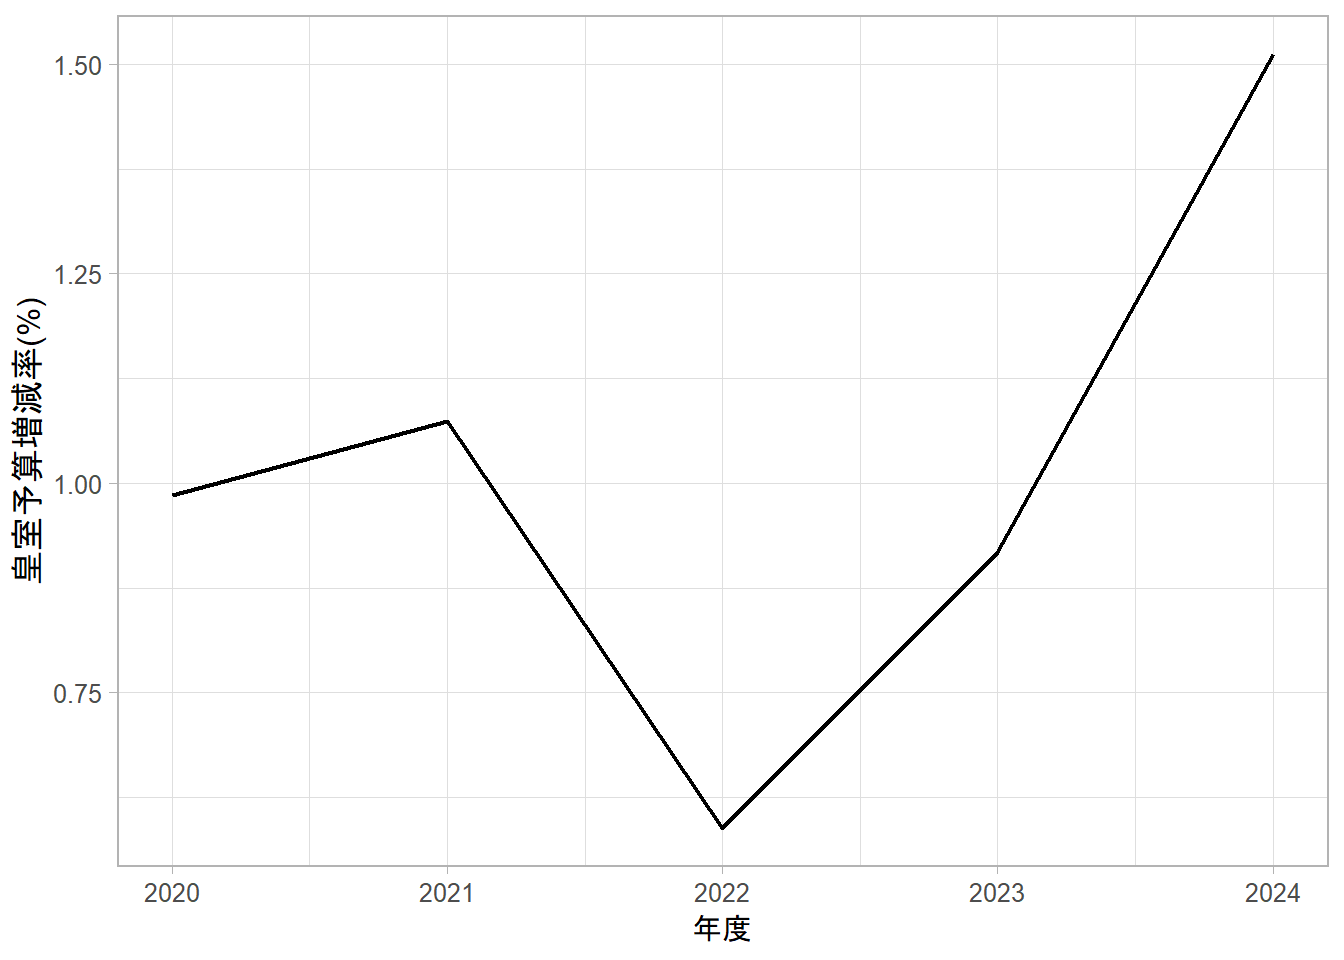
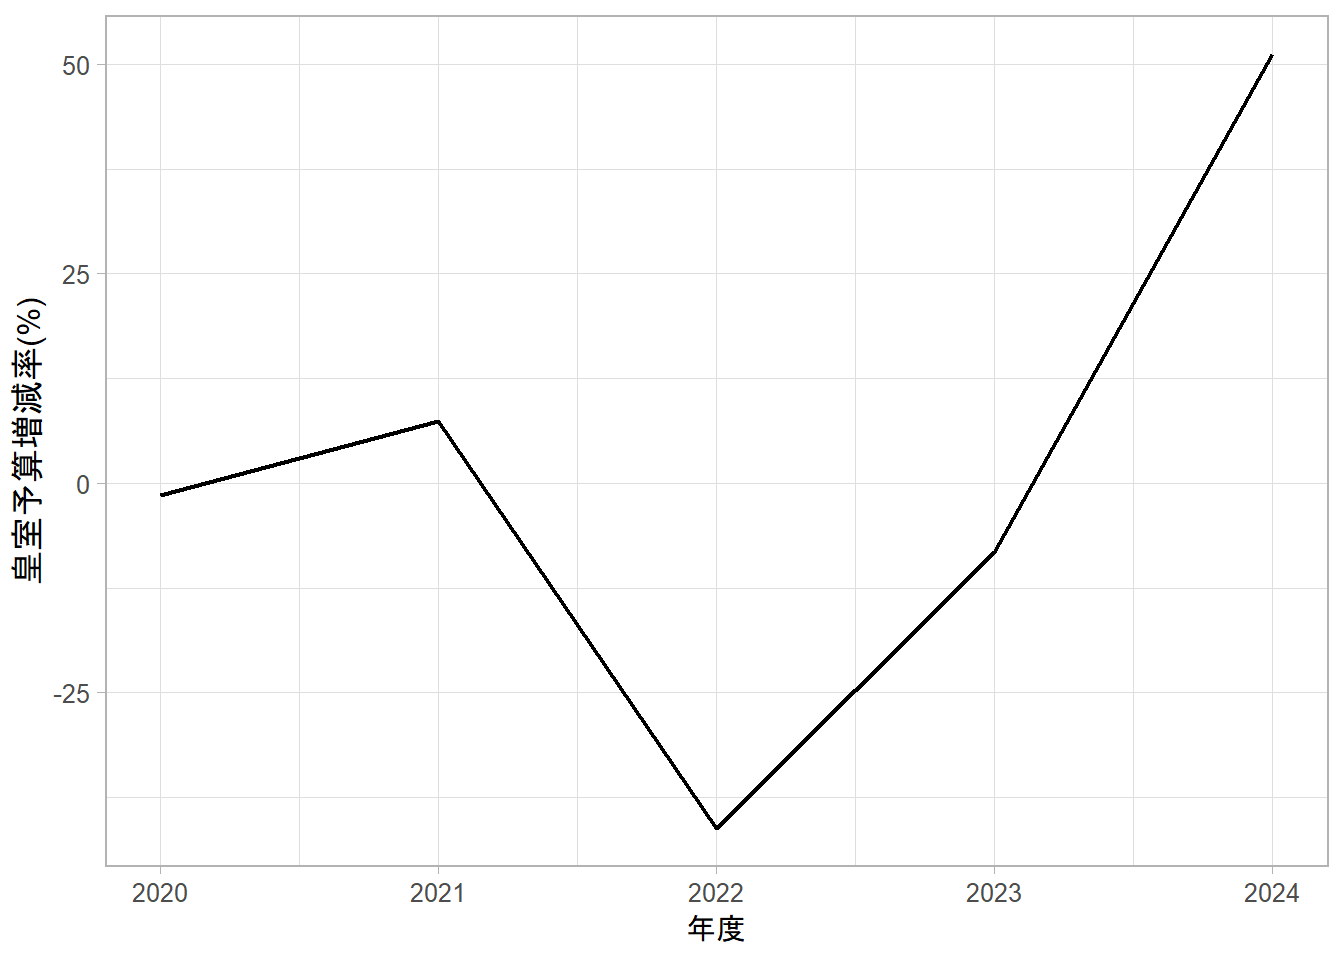
2

diff --git a/docs/ministry_expenses.html b/docs/ministry_expenses.html
@@ -788,92 +788,92 @@ The following object is masked from 'package:tidyr':
 <div class="sourceCode cell-code" id="cb24"><pre class="sourceCode r code-with-copy"><code class="sourceCode r"><span id="cb24-1"><a href="#cb24-1" aria-hidden="true" tabindex="-1"></a>Year1 <span class="ot">&lt;-</span> Year[<span class="dv">2</span><span class="sc">:</span><span class="dv">6</span>]</span>
 <span id="cb24-2"><a href="#cb24-2" aria-hidden="true" tabindex="-1"></a>revenue1 <span class="ot">&lt;-</span> revenue[<span class="dv">1</span><span class="sc">:</span><span class="dv">5</span>]</span>
 <span id="cb24-3"><a href="#cb24-3" aria-hidden="true" tabindex="-1"></a>revenue2 <span class="ot">&lt;-</span> revenue[<span class="dv">2</span><span class="sc">:</span><span class="dv">6</span>]</span>
-<span id="cb24-4"><a href="#cb24-4" aria-hidden="true" tabindex="-1"></a>revenue_Change <span class="ot">&lt;-</span> revenue2 <span class="sc">/</span> revenue1 </span>
+<span id="cb24-4"><a href="#cb24-4" aria-hidden="true" tabindex="-1"></a>revenue_Change <span class="ot">&lt;-</span> revenue2 <span class="sc">/</span> revenue1 <span class="sc">*</span> <span class="dv">100</span> <span class="sc">-</span> <span class="dv">100</span></span>
 <span id="cb24-5"><a href="#cb24-5" aria-hidden="true" tabindex="-1"></a>revenue_Change_df <span class="ot">&lt;-</span> <span class="fu">data.frame</span>(Year1,revenue_Change)</span>
 <span id="cb24-6"><a href="#cb24-6" aria-hidden="true" tabindex="-1"></a></span>
 <span id="cb24-7"><a href="#cb24-7" aria-hidden="true" tabindex="-1"></a>Imperial1 <span class="ot">&lt;-</span> Imperial[<span class="dv">1</span><span class="sc">:</span><span class="dv">5</span>]</span>
 <span id="cb24-8"><a href="#cb24-8" aria-hidden="true" tabindex="-1"></a>Imperial2 <span class="ot">&lt;-</span> Imperial[<span class="dv">2</span><span class="sc">:</span><span class="dv">6</span>]</span>
-<span id="cb24-9"><a href="#cb24-9" aria-hidden="true" tabindex="-1"></a>Imperial_Change <span class="ot">&lt;-</span> Imperial2 <span class="sc">/</span> Imperial1 </span>
+<span id="cb24-9"><a href="#cb24-9" aria-hidden="true" tabindex="-1"></a>Imperial_Change <span class="ot">&lt;-</span> Imperial2 <span class="sc">/</span> Imperial1 <span class="sc">*</span> <span class="dv">100</span> <span class="sc">-</span> <span class="dv">100</span></span>
 <span id="cb24-10"><a href="#cb24-10" aria-hidden="true" tabindex="-1"></a>Imperial_Change_df <span class="ot">&lt;-</span> <span class="fu">data.frame</span>(Year1,Imperial_Change)</span>
 <span id="cb24-11"><a href="#cb24-11" aria-hidden="true" tabindex="-1"></a></span>
 <span id="cb24-12"><a href="#cb24-12" aria-hidden="true" tabindex="-1"></a>Diet1 <span class="ot">&lt;-</span> Diet[<span class="dv">1</span><span class="sc">:</span><span class="dv">5</span>]</span>
 <span id="cb24-13"><a href="#cb24-13" aria-hidden="true" tabindex="-1"></a>Diet2 <span class="ot">&lt;-</span> Diet[<span class="dv">2</span><span class="sc">:</span><span class="dv">6</span>]</span>
-<span id="cb24-14"><a href="#cb24-14" aria-hidden="true" tabindex="-1"></a>Diet_Change <span class="ot">&lt;-</span> Diet2 <span class="sc">/</span> Diet1 </span>
+<span id="cb24-14"><a href="#cb24-14" aria-hidden="true" tabindex="-1"></a>Diet_Change <span class="ot">&lt;-</span> Diet2 <span class="sc">/</span> Diet1 <span class="sc">*</span> <span class="dv">100</span> <span class="sc">-</span> <span class="dv">100</span></span>
 <span id="cb24-15"><a href="#cb24-15" aria-hidden="true" tabindex="-1"></a>Diet_Change_df <span class="ot">&lt;-</span> <span class="fu">data.frame</span>(Year1,Diet_Change)</span>
 <span id="cb24-16"><a href="#cb24-16" aria-hidden="true" tabindex="-1"></a></span>
 <span id="cb24-17"><a href="#cb24-17" aria-hidden="true" tabindex="-1"></a>Court1 <span class="ot">&lt;-</span> Court[<span class="dv">1</span><span class="sc">:</span><span class="dv">5</span>]</span>
 <span id="cb24-18"><a href="#cb24-18" aria-hidden="true" tabindex="-1"></a>Court2 <span class="ot">&lt;-</span> Court[<span class="dv">2</span><span class="sc">:</span><span class="dv">6</span>]</span>
-<span id="cb24-19"><a href="#cb24-19" aria-hidden="true" tabindex="-1"></a>Court_Change <span class="ot">&lt;-</span> Court2 <span class="sc">/</span> Court1 </span>
+<span id="cb24-19"><a href="#cb24-19" aria-hidden="true" tabindex="-1"></a>Court_Change <span class="ot">&lt;-</span> Court2 <span class="sc">/</span> Court1 <span class="sc">*</span> <span class="dv">100</span> <span class="sc">-</span> <span class="dv">100</span></span>
 <span id="cb24-20"><a href="#cb24-20" aria-hidden="true" tabindex="-1"></a>Court_Change_df <span class="ot">&lt;-</span> <span class="fu">data.frame</span>(Year1,Court_Change)</span>
 <span id="cb24-21"><a href="#cb24-21" aria-hidden="true" tabindex="-1"></a></span>
 <span id="cb24-22"><a href="#cb24-22" aria-hidden="true" tabindex="-1"></a>Accounting1 <span class="ot">&lt;-</span> Accounting[<span class="dv">1</span><span class="sc">:</span><span class="dv">5</span>]</span>
 <span id="cb24-23"><a href="#cb24-23" aria-hidden="true" tabindex="-1"></a>Accounting2 <span class="ot">&lt;-</span> Accounting[<span class="dv">2</span><span class="sc">:</span><span class="dv">6</span>]</span>
-<span id="cb24-24"><a href="#cb24-24" aria-hidden="true" tabindex="-1"></a>Accounting_Change <span class="ot">&lt;-</span> Accounting2 <span class="sc">/</span>Accounting1 </span>
+<span id="cb24-24"><a href="#cb24-24" aria-hidden="true" tabindex="-1"></a>Accounting_Change <span class="ot">&lt;-</span> Accounting2 <span class="sc">/</span>Accounting1 <span class="sc">*</span> <span class="dv">100</span> <span class="sc">-</span> <span class="dv">100</span></span>
 <span id="cb24-25"><a href="#cb24-25" aria-hidden="true" tabindex="-1"></a>Accounting_Change_df <span class="ot">&lt;-</span> <span class="fu">data.frame</span>(Year1,Accounting_Change)</span>
 <span id="cb24-26"><a href="#cb24-26" aria-hidden="true" tabindex="-1"></a></span>
 <span id="cb24-27"><a href="#cb24-27" aria-hidden="true" tabindex="-1"></a>Cabinet1 <span class="ot">&lt;-</span> Cabinet[<span class="dv">1</span><span class="sc">:</span><span class="dv">5</span>]</span>
 <span id="cb24-28"><a href="#cb24-28" aria-hidden="true" tabindex="-1"></a>Cabinet2 <span class="ot">&lt;-</span> Cabinet[<span class="dv">2</span><span class="sc">:</span><span class="dv">6</span>]</span>
-<span id="cb24-29"><a href="#cb24-29" aria-hidden="true" tabindex="-1"></a>Cabinet_Change <span class="ot">&lt;-</span> Cabinet2 <span class="sc">/</span> Cabinet1 </span>
+<span id="cb24-29"><a href="#cb24-29" aria-hidden="true" tabindex="-1"></a>Cabinet_Change <span class="ot">&lt;-</span> Cabinet2 <span class="sc">/</span> Cabinet1 <span class="sc">*</span> <span class="dv">100</span> <span class="sc">-</span> <span class="dv">100</span></span>
 <span id="cb24-30"><a href="#cb24-30" aria-hidden="true" tabindex="-1"></a>Cabinet_Change_df <span class="ot">&lt;-</span> <span class="fu">data.frame</span>(Year1,Cabinet_Change)</span>
 <span id="cb24-31"><a href="#cb24-31" aria-hidden="true" tabindex="-1"></a></span>
 <span id="cb24-32"><a href="#cb24-32" aria-hidden="true" tabindex="-1"></a>Cabinet_Office1 <span class="ot">&lt;-</span> Cabinet_Office[<span class="dv">1</span><span class="sc">:</span><span class="dv">5</span>]</span>
 <span id="cb24-33"><a href="#cb24-33" aria-hidden="true" tabindex="-1"></a>Cabinet_Office2 <span class="ot">&lt;-</span> Cabinet_Office[<span class="dv">2</span><span class="sc">:</span><span class="dv">6</span>]</span>
-<span id="cb24-34"><a href="#cb24-34" aria-hidden="true" tabindex="-1"></a>Cabinet_Office_Change <span class="ot">&lt;-</span> Cabinet_Office2 <span class="sc">/</span>Cabinet_Office1 </span>
+<span id="cb24-34"><a href="#cb24-34" aria-hidden="true" tabindex="-1"></a>Cabinet_Office_Change <span class="ot">&lt;-</span> Cabinet_Office2 <span class="sc">/</span>Cabinet_Office1 <span class="sc">*</span> <span class="dv">100</span> <span class="sc">-</span> <span class="dv">100</span></span>
 <span id="cb24-35"><a href="#cb24-35" aria-hidden="true" tabindex="-1"></a>Cabinet_Office_Change_df <span class="ot">&lt;-</span> <span class="fu">data.frame</span>(Year1,Cabinet_Office_Change)</span>
 <span id="cb24-36"><a href="#cb24-36" aria-hidden="true" tabindex="-1"></a></span>
 <span id="cb24-37"><a href="#cb24-37" aria-hidden="true" tabindex="-1"></a>MIC1 <span class="ot">&lt;-</span> MIC[<span class="dv">1</span><span class="sc">:</span><span class="dv">5</span>]</span>
 <span id="cb24-38"><a href="#cb24-38" aria-hidden="true" tabindex="-1"></a>MIC2 <span class="ot">&lt;-</span> MIC[<span class="dv">2</span><span class="sc">:</span><span class="dv">6</span>]</span>
-<span id="cb24-39"><a href="#cb24-39" aria-hidden="true" tabindex="-1"></a>MIC_Change <span class="ot">&lt;-</span> MIC2 <span class="sc">/</span> MIC1 </span>
+<span id="cb24-39"><a href="#cb24-39" aria-hidden="true" tabindex="-1"></a>MIC_Change <span class="ot">&lt;-</span> MIC2 <span class="sc">/</span> MIC1 <span class="sc">*</span> <span class="dv">100</span> <span class="sc">-</span> <span class="dv">100</span></span>
 <span id="cb24-40"><a href="#cb24-40" aria-hidden="true" tabindex="-1"></a>MIC_Change_df <span class="ot">&lt;-</span> <span class="fu">data.frame</span>(Year1,MIC_Change)</span>
 <span id="cb24-41"><a href="#cb24-41" aria-hidden="true" tabindex="-1"></a></span>
 <span id="cb24-42"><a href="#cb24-42" aria-hidden="true" tabindex="-1"></a>Justice1 <span class="ot">&lt;-</span> Justice[<span class="dv">1</span><span class="sc">:</span><span class="dv">5</span>]</span>
 <span id="cb24-43"><a href="#cb24-43" aria-hidden="true" tabindex="-1"></a>Justice2 <span class="ot">&lt;-</span> Justice[<span class="dv">2</span><span class="sc">:</span><span class="dv">6</span>]</span>
-<span id="cb24-44"><a href="#cb24-44" aria-hidden="true" tabindex="-1"></a>Justice_Change <span class="ot">&lt;-</span> Justice2 <span class="sc">/</span> Justice1 </span>
+<span id="cb24-44"><a href="#cb24-44" aria-hidden="true" tabindex="-1"></a>Justice_Change <span class="ot">&lt;-</span> Justice2 <span class="sc">/</span> Justice1 <span class="sc">*</span> <span class="dv">100</span> <span class="sc">-</span> <span class="dv">100</span></span>
 <span id="cb24-45"><a href="#cb24-45" aria-hidden="true" tabindex="-1"></a>Justice_Change_df <span class="ot">&lt;-</span> <span class="fu">data.frame</span>(Year1,Justice_Change)</span>
 <span id="cb24-46"><a href="#cb24-46" aria-hidden="true" tabindex="-1"></a></span>
 <span id="cb24-47"><a href="#cb24-47" aria-hidden="true" tabindex="-1"></a>Foreign1 <span class="ot">&lt;-</span> Foreign[<span class="dv">1</span><span class="sc">:</span><span class="dv">5</span>]</span>
 <span id="cb24-48"><a href="#cb24-48" aria-hidden="true" tabindex="-1"></a>Foreign2 <span class="ot">&lt;-</span> Foreign[<span class="dv">2</span><span class="sc">:</span><span class="dv">6</span>]</span>
-<span id="cb24-49"><a href="#cb24-49" aria-hidden="true" tabindex="-1"></a>Foreign_Change <span class="ot">&lt;-</span> Foreign2 <span class="sc">/</span> Foreign1 </span>
+<span id="cb24-49"><a href="#cb24-49" aria-hidden="true" tabindex="-1"></a>Foreign_Change <span class="ot">&lt;-</span> Foreign2 <span class="sc">/</span> Foreign1 <span class="sc">*</span> <span class="dv">100</span> <span class="sc">-</span> <span class="dv">100</span></span>
 <span id="cb24-50"><a href="#cb24-50" aria-hidden="true" tabindex="-1"></a>Foreign_Change_df <span class="ot">&lt;-</span> <span class="fu">data.frame</span>(Year1,Foreign_Change)</span>
 <span id="cb24-51"><a href="#cb24-51" aria-hidden="true" tabindex="-1"></a></span>
 <span id="cb24-52"><a href="#cb24-52" aria-hidden="true" tabindex="-1"></a>Finance1 <span class="ot">&lt;-</span> Finance[<span class="dv">1</span><span class="sc">:</span><span class="dv">5</span>]</span>
 <span id="cb24-53"><a href="#cb24-53" aria-hidden="true" tabindex="-1"></a>Finance2 <span class="ot">&lt;-</span> Finance[<span class="dv">2</span><span class="sc">:</span><span class="dv">6</span>]</span>
-<span id="cb24-54"><a href="#cb24-54" aria-hidden="true" tabindex="-1"></a>Finance_Change <span class="ot">&lt;-</span> Finance2 <span class="sc">/</span>Finance1 </span>
+<span id="cb24-54"><a href="#cb24-54" aria-hidden="true" tabindex="-1"></a>Finance_Change <span class="ot">&lt;-</span> Finance2 <span class="sc">/</span>Finance1 <span class="sc">*</span> <span class="dv">100</span> <span class="sc">-</span> <span class="dv">100</span></span>
 <span id="cb24-55"><a href="#cb24-55" aria-hidden="true" tabindex="-1"></a>Finance_Change_df <span class="ot">&lt;-</span> <span class="fu">data.frame</span>(Year1,Finance_Change)</span>
 <span id="cb24-56"><a href="#cb24-56" aria-hidden="true" tabindex="-1"></a></span>
 <span id="cb24-57"><a href="#cb24-57" aria-hidden="true" tabindex="-1"></a>Education1 <span class="ot">&lt;-</span> Education[<span class="dv">1</span><span class="sc">:</span><span class="dv">5</span>]</span>
 <span id="cb24-58"><a href="#cb24-58" aria-hidden="true" tabindex="-1"></a>Education2 <span class="ot">&lt;-</span> Education[<span class="dv">2</span><span class="sc">:</span><span class="dv">6</span>]</span>
-<span id="cb24-59"><a href="#cb24-59" aria-hidden="true" tabindex="-1"></a>Education_Change <span class="ot">&lt;-</span> Education2 <span class="sc">/</span> Education1 </span>
+<span id="cb24-59"><a href="#cb24-59" aria-hidden="true" tabindex="-1"></a>Education_Change <span class="ot">&lt;-</span> Education2 <span class="sc">/</span> Education1 <span class="sc">*</span> <span class="dv">100</span> <span class="sc">-</span> <span class="dv">100</span></span>
 <span id="cb24-60"><a href="#cb24-60" aria-hidden="true" tabindex="-1"></a>Education_Change_df <span class="ot">&lt;-</span> <span class="fu">data.frame</span>(Year1,Education_Change)</span>
 <span id="cb24-61"><a href="#cb24-61" aria-hidden="true" tabindex="-1"></a></span>
 <span id="cb24-62"><a href="#cb24-62" aria-hidden="true" tabindex="-1"></a>MHLW1 <span class="ot">&lt;-</span> MHLW[<span class="dv">1</span><span class="sc">:</span><span class="dv">5</span>]</span>
 <span id="cb24-63"><a href="#cb24-63" aria-hidden="true" tabindex="-1"></a>MHLW2 <span class="ot">&lt;-</span> MHLW[<span class="dv">2</span><span class="sc">:</span><span class="dv">6</span>]</span>
-<span id="cb24-64"><a href="#cb24-64" aria-hidden="true" tabindex="-1"></a>MHLW_Change <span class="ot">&lt;-</span> MHLW2 <span class="sc">/</span> MHLW1 </span>
+<span id="cb24-64"><a href="#cb24-64" aria-hidden="true" tabindex="-1"></a>MHLW_Change <span class="ot">&lt;-</span> MHLW2 <span class="sc">/</span> MHLW1 <span class="sc">*</span> <span class="dv">100</span> <span class="sc">-</span> <span class="dv">100</span></span>
 <span id="cb24-65"><a href="#cb24-65" aria-hidden="true" tabindex="-1"></a>MHLW_Change_df <span class="ot">&lt;-</span> <span class="fu">data.frame</span>(Year1,MHLW_Change)</span>
 <span id="cb24-66"><a href="#cb24-66" aria-hidden="true" tabindex="-1"></a></span>
 <span id="cb24-67"><a href="#cb24-67" aria-hidden="true" tabindex="-1"></a>MAFF1 <span class="ot">&lt;-</span> MAFF[<span class="dv">1</span><span class="sc">:</span><span class="dv">5</span>]</span>
 <span id="cb24-68"><a href="#cb24-68" aria-hidden="true" tabindex="-1"></a>MAFF2 <span class="ot">&lt;-</span> MAFF[<span class="dv">2</span><span class="sc">:</span><span class="dv">6</span>]</span>
-<span id="cb24-69"><a href="#cb24-69" aria-hidden="true" tabindex="-1"></a>MAFF_Change <span class="ot">&lt;-</span> MAFF2 <span class="sc">/</span> MAFF1 </span>
+<span id="cb24-69"><a href="#cb24-69" aria-hidden="true" tabindex="-1"></a>MAFF_Change <span class="ot">&lt;-</span> MAFF2 <span class="sc">/</span> MAFF1 <span class="sc">*</span> <span class="dv">100</span> <span class="sc">-</span> <span class="dv">100</span></span>
 <span id="cb24-70"><a href="#cb24-70" aria-hidden="true" tabindex="-1"></a>MAFF_Change_df <span class="ot">&lt;-</span> <span class="fu">data.frame</span>(Year1,MAFF_Change)</span>
 <span id="cb24-71"><a href="#cb24-71" aria-hidden="true" tabindex="-1"></a></span>
 <span id="cb24-72"><a href="#cb24-72" aria-hidden="true" tabindex="-1"></a>METI1 <span class="ot">&lt;-</span> METI[<span class="dv">1</span><span class="sc">:</span><span class="dv">5</span>]</span>
 <span id="cb24-73"><a href="#cb24-73" aria-hidden="true" tabindex="-1"></a>METI2 <span class="ot">&lt;-</span> METI[<span class="dv">2</span><span class="sc">:</span><span class="dv">6</span>]</span>
-<span id="cb24-74"><a href="#cb24-74" aria-hidden="true" tabindex="-1"></a>METI_Change <span class="ot">&lt;-</span> METI2 <span class="sc">/</span> METI1 </span>
+<span id="cb24-74"><a href="#cb24-74" aria-hidden="true" tabindex="-1"></a>METI_Change <span class="ot">&lt;-</span> METI2 <span class="sc">/</span> METI1 <span class="sc">*</span> <span class="dv">100</span> <span class="sc">-</span> <span class="dv">100</span></span>
 <span id="cb24-75"><a href="#cb24-75" aria-hidden="true" tabindex="-1"></a>METI_Change_df <span class="ot">&lt;-</span> <span class="fu">data.frame</span>(Year1,METI_Change)</span>
 <span id="cb24-76"><a href="#cb24-76" aria-hidden="true" tabindex="-1"></a></span>
 <span id="cb24-77"><a href="#cb24-77" aria-hidden="true" tabindex="-1"></a>MLIT1 <span class="ot">&lt;-</span> MLIT[<span class="dv">1</span><span class="sc">:</span><span class="dv">5</span>]</span>
 <span id="cb24-78"><a href="#cb24-78" aria-hidden="true" tabindex="-1"></a>MLIT2 <span class="ot">&lt;-</span> MLIT[<span class="dv">2</span><span class="sc">:</span><span class="dv">6</span>]</span>
-<span id="cb24-79"><a href="#cb24-79" aria-hidden="true" tabindex="-1"></a>MLIT_Change <span class="ot">&lt;-</span> MLIT2 <span class="sc">/</span> MLIT1 </span>
+<span id="cb24-79"><a href="#cb24-79" aria-hidden="true" tabindex="-1"></a>MLIT_Change <span class="ot">&lt;-</span> MLIT2 <span class="sc">/</span> MLIT1 <span class="sc">*</span> <span class="dv">100</span> <span class="sc">-</span> <span class="dv">100</span></span>
 <span id="cb24-80"><a href="#cb24-80" aria-hidden="true" tabindex="-1"></a>MLIT_Change_df <span class="ot">&lt;-</span> <span class="fu">data.frame</span>(Year1,MLIT_Change)</span>
 <span id="cb24-81"><a href="#cb24-81" aria-hidden="true" tabindex="-1"></a></span>
 <span id="cb24-82"><a href="#cb24-82" aria-hidden="true" tabindex="-1"></a>MOE1 <span class="ot">&lt;-</span> MOE[<span class="dv">1</span><span class="sc">:</span><span class="dv">5</span>]</span>
 <span id="cb24-83"><a href="#cb24-83" aria-hidden="true" tabindex="-1"></a>MOE2 <span class="ot">&lt;-</span> MOE[<span class="dv">2</span><span class="sc">:</span><span class="dv">6</span>]</span>
-<span id="cb24-84"><a href="#cb24-84" aria-hidden="true" tabindex="-1"></a>MOE_Change <span class="ot">&lt;-</span> MOE2 <span class="sc">/</span> MOE1 </span>
+<span id="cb24-84"><a href="#cb24-84" aria-hidden="true" tabindex="-1"></a>MOE_Change <span class="ot">&lt;-</span> MOE2 <span class="sc">/</span> MOE1 <span class="sc">*</span> <span class="dv">100</span> <span class="sc">-</span> <span class="dv">100</span></span>
 <span id="cb24-85"><a href="#cb24-85" aria-hidden="true" tabindex="-1"></a>MOE_Change_df <span class="ot">&lt;-</span> <span class="fu">data.frame</span>(Year1,MOE_Change)</span>
 <span id="cb24-86"><a href="#cb24-86" aria-hidden="true" tabindex="-1"></a></span>
 <span id="cb24-87"><a href="#cb24-87" aria-hidden="true" tabindex="-1"></a>MOD1 <span class="ot">&lt;-</span> MOD[<span class="dv">1</span><span class="sc">:</span><span class="dv">5</span>]</span>
 <span id="cb24-88"><a href="#cb24-88" aria-hidden="true" tabindex="-1"></a>MOD2 <span class="ot">&lt;-</span> MOD[<span class="dv">2</span><span class="sc">:</span><span class="dv">6</span>]</span>
-<span id="cb24-89"><a href="#cb24-89" aria-hidden="true" tabindex="-1"></a>MOD_Change <span class="ot">&lt;-</span> MOD2 <span class="sc">/</span> MOD1 </span>
+<span id="cb24-89"><a href="#cb24-89" aria-hidden="true" tabindex="-1"></a>MOD_Change <span class="ot">&lt;-</span> MOD2 <span class="sc">/</span> MOD1 <span class="sc">*</span> <span class="dv">100</span> <span class="sc">-</span> <span class="dv">100</span></span>
 <span id="cb24-90"><a href="#cb24-90" aria-hidden="true" tabindex="-1"></a>MOD_Change_df <span class="ot">&lt;-</span> <span class="fu">data.frame</span>(Year1,MOD_Change)</span>
 <span id="cb24-91"><a href="#cb24-91" aria-hidden="true" tabindex="-1"></a></span>
 <span id="cb24-92"><a href="#cb24-92" aria-hidden="true" tabindex="-1"></a>revenue_Change_df <span class="sc">|&gt;</span> </span>
